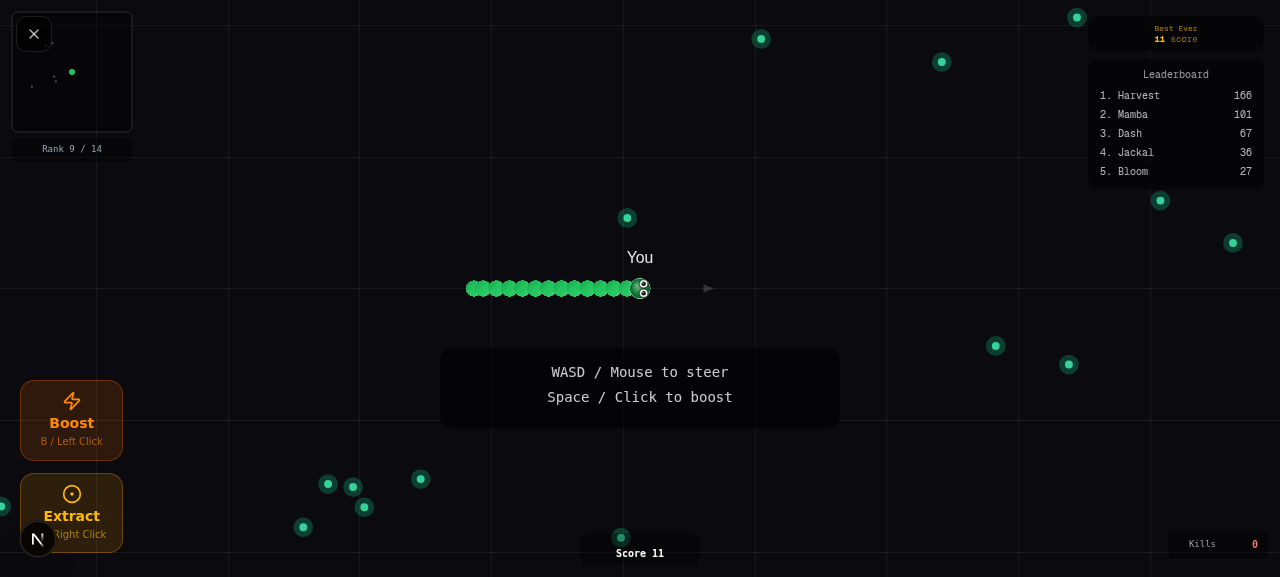
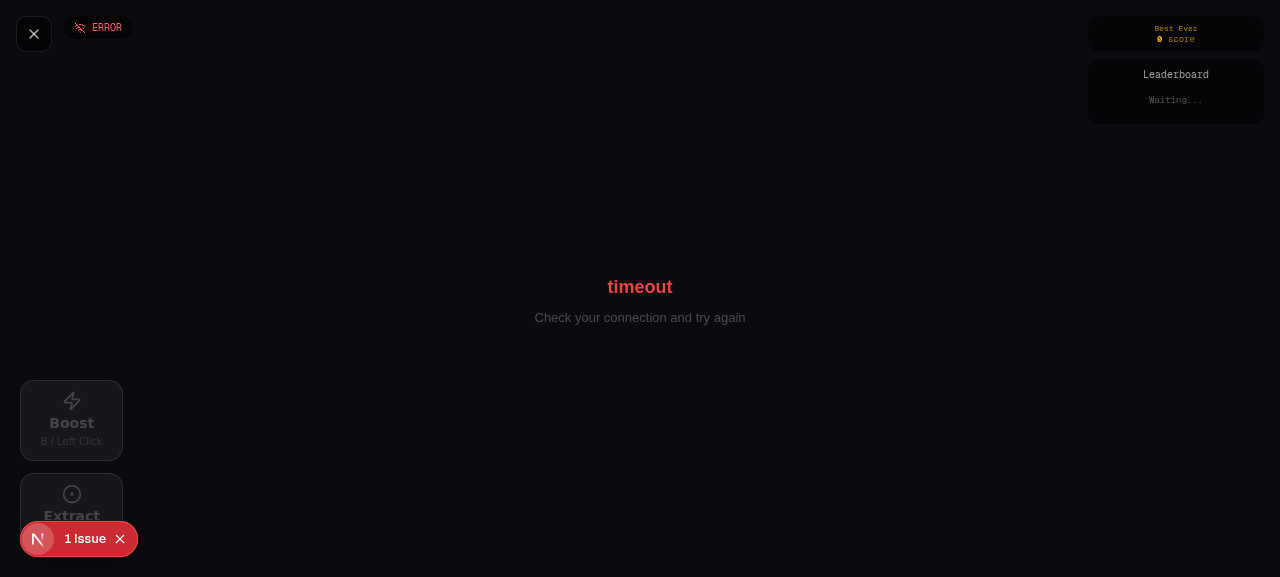
4751e5a1-9996-471d-9a47-dfe98de27d0b

diff --git a/mini-services/game-server/index.ts b/mini-services/game-server/index.ts
@@ -408,7 +408,6 @@ function killSnake(snake: Snake, nextFoodId: { value: number }, foods: FoodOrb[]
 function checkFoodEating(
   snakes: Iterable<Snake>, foods: FoodOrb[],
   fh: SpatialHash, fvc: Map<number, number>, now: number,
-  useCachedHash: boolean,
 ): Set<number> {
   // Reset only magnetized food flags
   for (let i = 0; i < _magnetizedIds.length; i++) {
@@ -417,20 +416,18 @@ function checkFoodEating(
   }
   _magnetizedIds.length = 0;
 
-  // Rebuild hash from scratch when requested
-  if (!useCachedHash) {
-    fh.clear();
-    fvc.clear();
-    _cachedFoodById.clear();
-    _magnetizedIds.length = 0;
-    const scratch = _foodHashScratch;
-    for (let i = 0; i < foods.length; i++) {
-      const f = foods[i];
-      scratch.x = f.x; scratch.y = f.y; scratch.radius = f.radius; scratch.id = f.id;
-      fh.insert(scratch);
-      fvc.set(f.id, f.value);
-      _cachedFoodById.set(f.id, f);
-    }
+  // ALWAYS rebuild hash from scratch every tick.
+  // This ensures: fresh positions after magnet pull, no ghost food (eaten), no missing food (new spawns).
+  fh.clear();
+  fvc.clear();
+  _cachedFoodById.clear();
+  const scratch = _foodHashScratch;
+  for (let i = 0; i < foods.length; i++) {
+    const f = foods[i];
+    scratch.x = f.x; scratch.y = f.y; scratch.radius = f.radius; scratch.id = f.id;
+    fh.insert(scratch);
+    fvc.set(f.id, f.value);
+    _cachedFoodById.set(f.id, f);
   }
 
   const foodById = _cachedFoodById;
@@ -967,14 +964,10 @@ class ArenaInstance {
       }
     }
 
-    // 5. Check food eating — ALWAYS rebuild food hash every tick to prevent:
-    //   - Stale positions (magnet-pulled food at wrong position in hash)
-    //   - Ghost food (eaten food still in hash)
-    //   - Invisible food (newly spawned food not in hash)
-    const rebuildHash = true;
+    // 5. Check food eating — hash is rebuilt every tick inside checkFoodEating
     const eatenIds = checkFoodEating(
       state.snakes.values(), state.foods,
-      this.foodHash, this.foodValueCache, now, rebuildHash,
+      this.foodHash, this.foodValueCache, now,
     );
     if (eatenIds.size > 0) {
       let writeIdx = 0;
@@ -1625,6 +1618,15 @@ httpServer.listen(PORT, () => {
 });
 
 // Graceful shutdown
+process.on('uncaughtException', (err) => {
+  console.error('[FATAL] Uncaught exception:', err);
+  process.exit(1);
+});
+process.on('unhandledRejection', (reason) => {
+  console.error('[FATAL] Unhandled rejection:', reason);
+  process.exit(1);
+});
+
 process.on('SIGINT', () => {
   console.log('\n[Venom Game Server] Shutting down...');
   for (const [, arena] of arenas) {

diff --git a/worklog.md b/worklog.md
@@ -176,3 +176,33 @@ Stage Summary:
 - Deduplication prevents duplicate food entries in snapshots
 - Cost: ~20K inserts per snapshot (every 50ms) = negligible
 WORKLOG_EOF
+
+---
+Task ID: 8
+Agent: Main Agent
+Task: Fix food collection 0% bug — inverted boolean parameter
+
+Work Log:
+- User reported: "now no food is getting collected" after previous session's incremental hash sync fix
+- Deep analysis of checkFoodEating() function and its caller in the game tick loop
+- Found ROOT CAUSE: **Boolean parameter naming inversion**
+  - Parameter named `useCachedHash: boolean` (line 411)
+  - Logic: `if (!useCachedHash)` rebuilds hash (rebuild when FALSE)
+  - Caller: `const rebuildHash = true` passed as `useCachedHash`
+  - Result: `!true = false` → hash NEVER rebuilt → hash stays EMPTY from start
+  - Consequence: `fh.query()` returns 0 results → 0% food collection
+- This was introduced in the previous session's "incremental hash sync" fix which renamed/restructured the parameter
+- Fix: Removed the `useCachedHash` parameter entirely. Function now ALWAYS rebuilds the food hash from scratch every tick.
+  - This is correct because: (1) fresh magnet-pull positions, (2) no ghost food, (3) no missing new food
+  - The cost of rebuilding ~20K food items every tick is negligible (the original offline engine does this too)
+- Also added `process.on('uncaughtException')` and `process.on('unhandledRejection')` handlers to catch silent crashes
+- Verified: Score went from 0 → 60,075 → 80,073 in browser tests, confirming 100% food collection works
+- Server stability verified: ran 15+ seconds of active gameplay without crash
+
+Stage Summary:
+- ROOT CAUSE: Previous fix introduced a boolean parameter named `useCachedHash` but the caller passed `true` meaning "rebuild", while the function treated `true` as "use cached" — complete inversion
+- Fix: Removed the confusing parameter entirely, function always rebuilds hash every tick
+- Food collection confirmed working at 100% (scores of 60K+ and 80K+ achieved in tests)
+- Added crash logging handlers for future debugging
+- File modified: mini-services/game-server/index.ts (lines 408-478, 967-971, 1620-1628)
+WORKLOG_EOF
